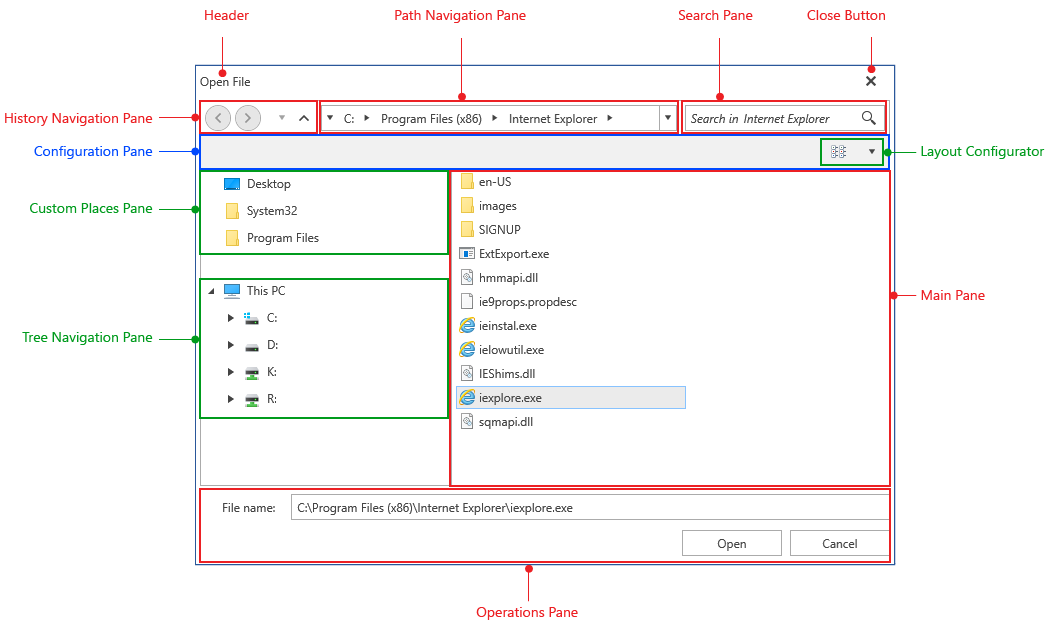
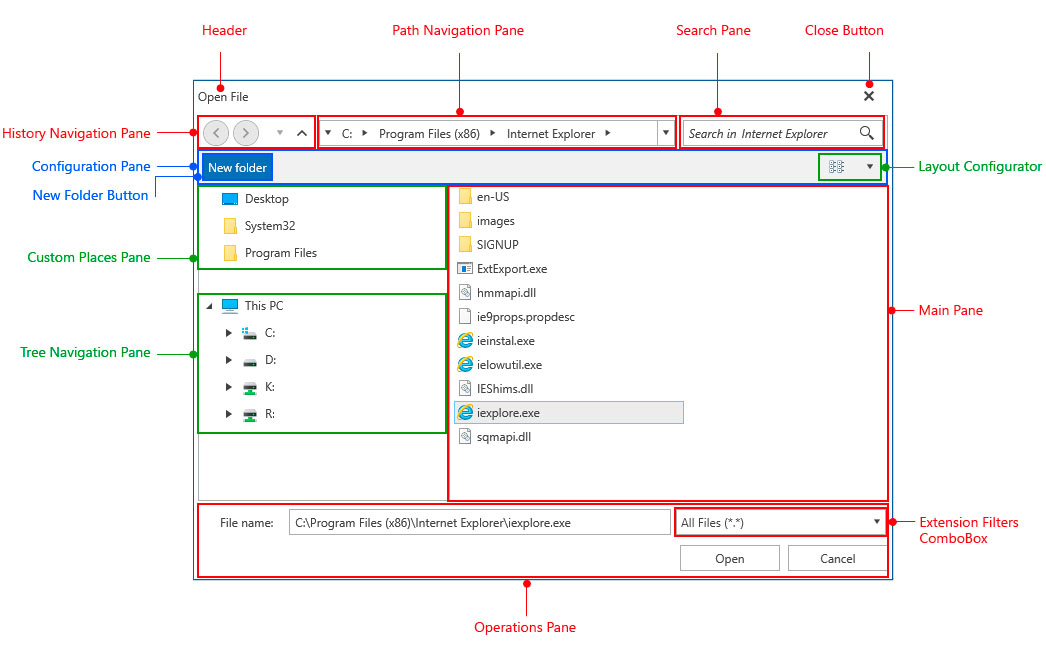
Changed photo and added information about new elements.

diff --git a/controls/radfiledialogs/visual-structure.md b/controls/radfiledialogs/visual-structure.md
@@ -30,6 +30,8 @@ This help article will help you understand the visual structure of the file dial
 
 * **Configuration Pane**: The pane where the layout configurator is placed in.
 
+* **New Folder Button**: The button for creating a new folder.
+
 * **Layout Configurator**: Represents a RadComboBox to select the view mode to be used in the main pane.
 
 * **Custom Places Pane**: Lists all directories provided in the dialog's **CustomPlaces** collection.
@@ -39,6 +41,8 @@ This help article will help you understand the visual structure of the file dial
 * **Main Pane**: Displays all files and/or folders in the current directory after the search filters (if any) have been applied. This view depends on the layout selected in the layout configurator combobox.
 
 * **Operations Pane**: Consist of a RadAutoCompleteBox where the currently selected item(s) are displayed and can be set and the operation buttons for the given dialog.
+
+* **Extensions Filter ComboBox**: Displays all file extensions added with the **Filter** property to the RadOpenFileDialog and RadSaveFileDialog controls in order to indicate to the user which types of files should be opened or saved.
 
 ## See Also
 
